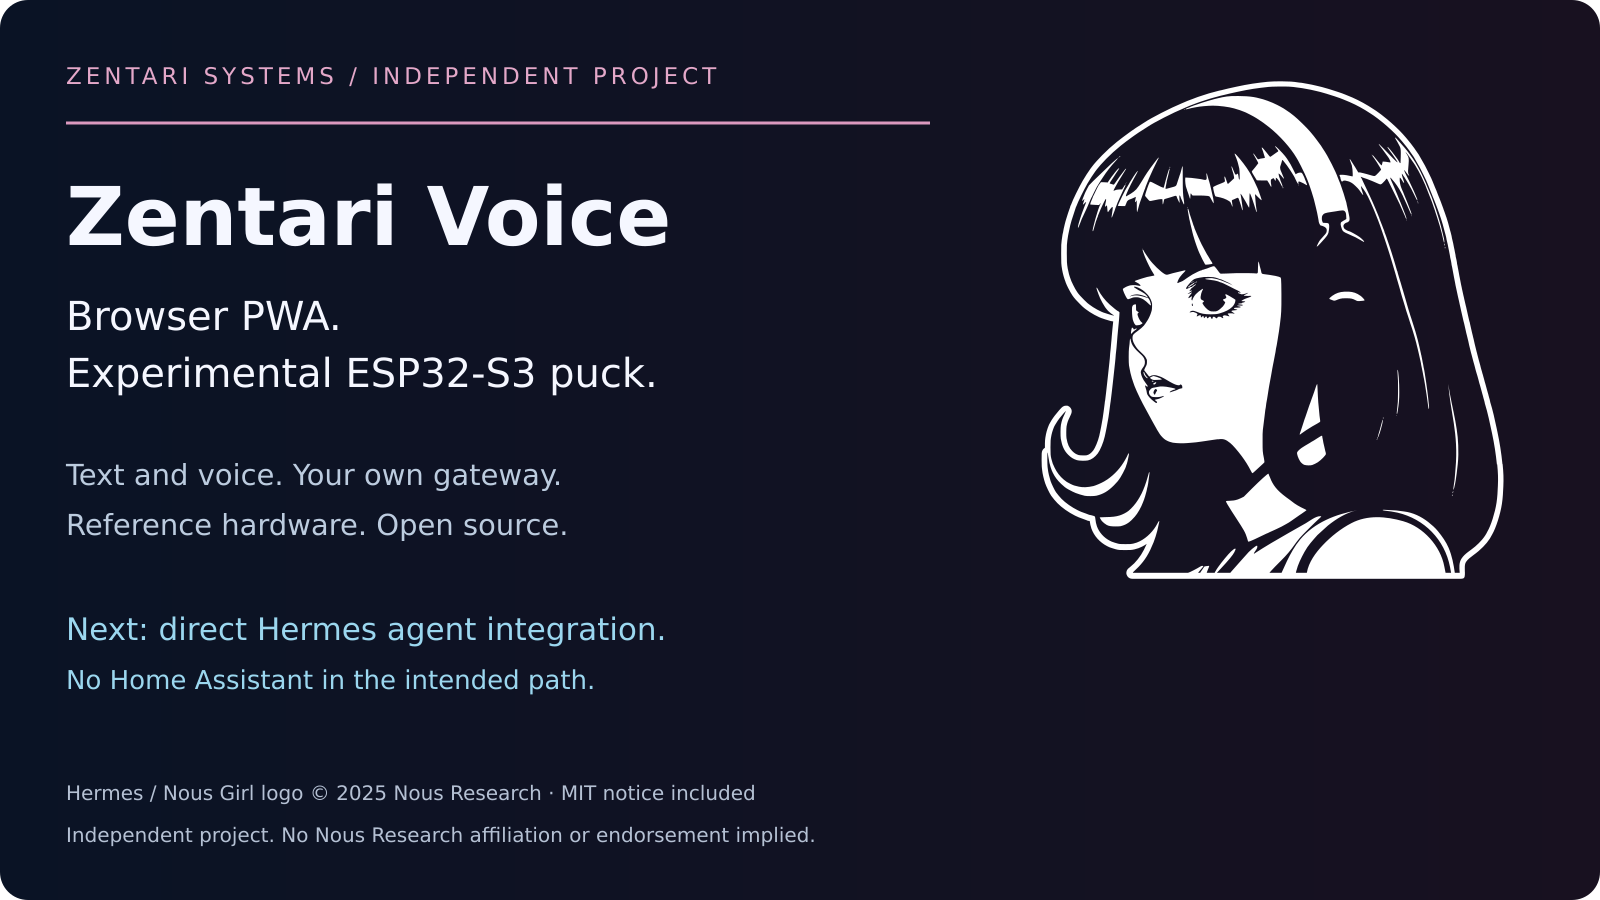
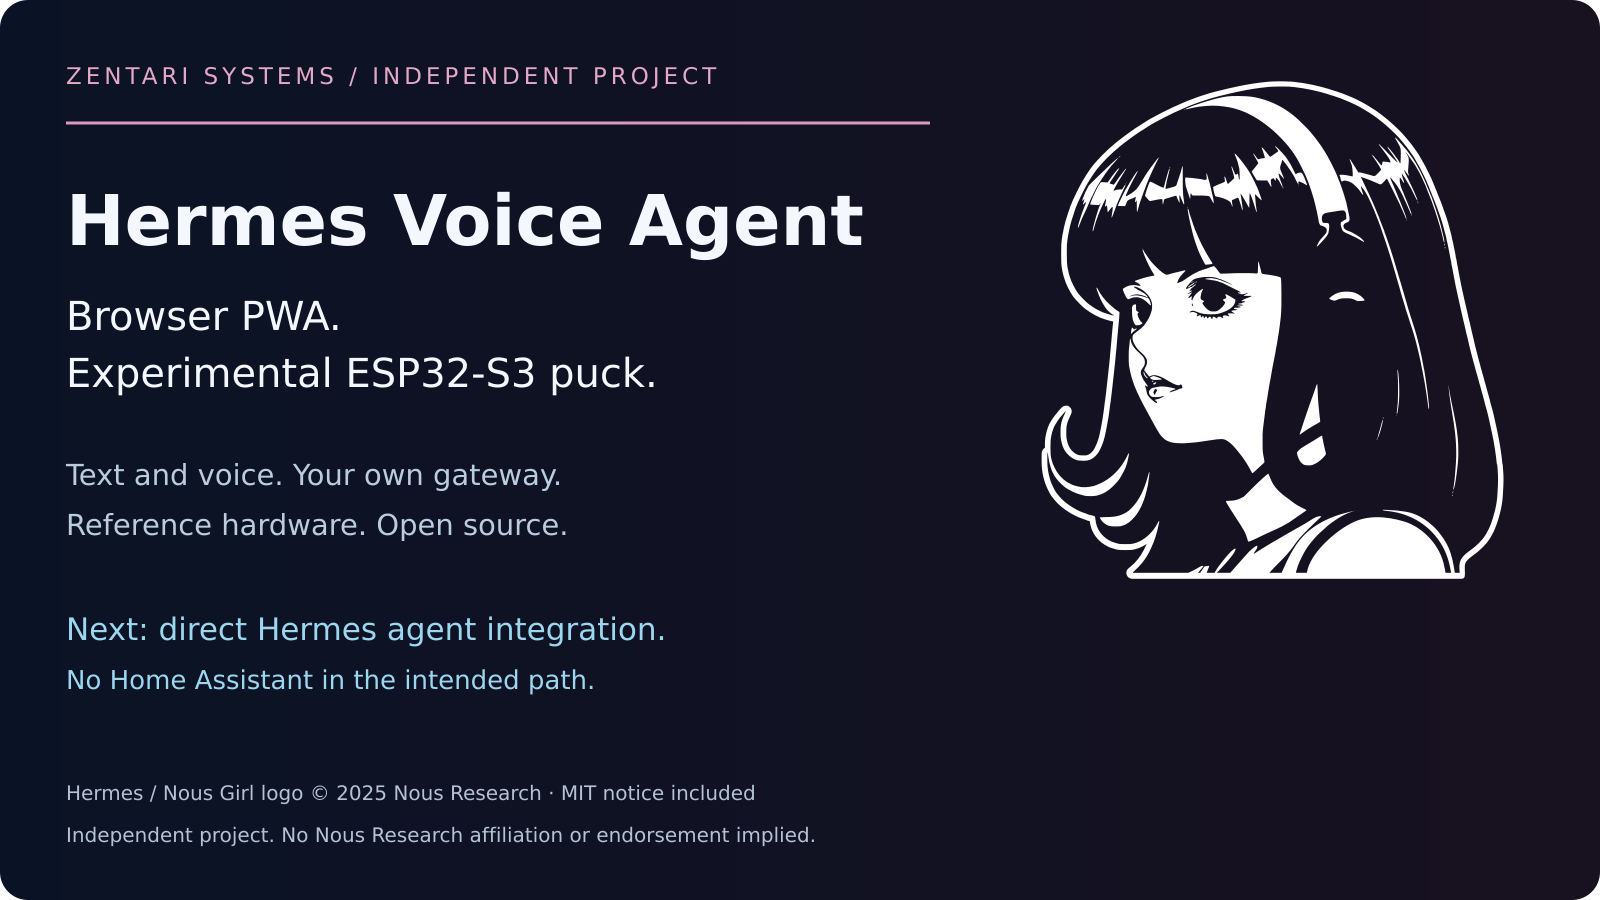
Rename the browser app and overview image to Hermes Voice Agent
The wire protocol name (zentari.voice.v1) and the puck firmware brand
text are unchanged.

diff --git a/pwa/client/index.html b/pwa/client/index.html
@@ -4,7 +4,7 @@
   <meta charset="utf-8">
   <meta name="viewport" content="width=device-width,initial-scale=1,viewport-fit=cover">
   <meta name="theme-color" content="#101522">
-  <title>Zentari Voice · Conversation</title>
+  <title>Hermes Voice Agent · Conversation</title>
   <link rel="manifest" href="manifest.json">
   <link rel="icon" href="icons/icon-192.png">
   <link rel="stylesheet" href="app.css">
@@ -12,7 +12,7 @@
 <body>
   <a class="skip-link" href="#message">Skip to message</a>
   <header>
-    <a class="brand" href="./" aria-label="Zentari Voice home">ZENTARI <span>Voice</span></a>
+    <a class="brand" href="./" aria-label="Hermes Voice Agent home">HERMES <span>Voice Agent</span></a>
     <div class="connection-info"><span id="connection" role="status">Disconnected</span><time id="clock"></time></div>
     <button id="settings-open">Settings</button>
   </header>

diff --git a/README.md b/README.md
@@ -14,7 +14,7 @@ New here? Read the [plain-English overview (eli10.md)](eli10.md) first.
 [Puck parts](docs/PUCK-MATERIALS.md) ·
 [How it works](docs/ARCHITECTURE.md)
 
-![Zentari Voice browser PWA and experimental ESP32-S3 puck, with the official Nous Research Hermes logo. Direct Hermes integration is planned.](docs/media/zentari-voice-overview.png)
+![Hermes Voice Agent browser PWA and experimental ESP32-S3 puck, with the official Nous Research Hermes logo. Direct Hermes integration is planned.](docs/media/zentari-voice-overview.png)
 
 > **Experimental preview.** The browser app works. The puck firmware is an
 > experiment. Connecting to the [Hermes agent](docs/HERMES-INTEGRATION.md) is
@@ -22,8 +22,8 @@ New here? Read the [plain-English overview (eli10.md)](eli10.md) first.
 
 ## Names used in this project
 
-- **Hermes Voice Agent** is the project, built by Zentari Systems. The browser
-  app and the overview image still show its earlier name, Zentari Voice.
+- **Hermes Voice Agent** is the project and the browser app, built by Zentari Systems.
+  It was previously called Zentari Voice.
 - **The puck** is the optional round touch-screen device.
 - **Zenti** and **Orbit** are the two on-screen characters you can choose.
 - **Hermes** is the [Nous Research agent](https://github.com/NousResearch/hermes-agent)

diff --git a/CHANGELOG.md b/CHANGELOG.md
@@ -9,7 +9,8 @@
   example speech-model downloads.
 - `tools/setup.py` now prints the reason when setup fails and removes a
   half-created configuration directory, so setup can be run again.
-- Use "Hermes Voice Agent" consistently in docs and report subjects; replace private
+- Rename the project to Hermes Voice Agent in docs, report subjects, the
+  browser app title and install name, and the overview image; replace private
   infrastructure names in comments, tests and the demo with neutral wording.
 - Fix two missing-file references in NOTICE and three help links in the
   install guide.
